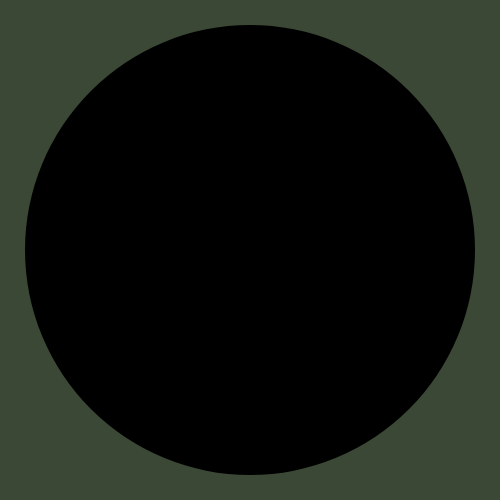
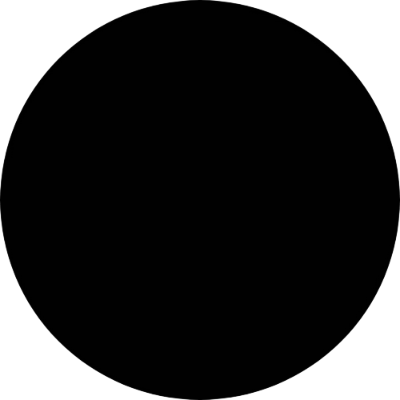
Created a function to render image when the Cell component is rendered. Piece image depends on the data send from app.py / route

diff --git a/client/src/components/Cell.jsx b/client/src/components/Cell.jsx
@@ -1,31 +1,24 @@
 import axios from "axios";
-import { useState } from "react";
-import blank from '../assets/blank.png';
-import black from '../assets/black.png';
-import white from '../assets/white.png';
+import { useState, useEffect} from "react";
+import Piece from './Piece';
 
 export default function Cell(props) {
-  const [side, setSide] = useState();
   const [color, setColor] = useState();
+
+
 
   const getInfo = async () => {
     const response = await axios.get("http://localhost:8080/");
-    setSide(response.data)
+    setColor(response.data)
   };
 
-  const setImg = () => {
-    if(side == 1){
-        setColor(black);
-    } else if(side == -1){
-        setColor(white);
-    } else {
-        setColor(blank);
-    }
-  }
+  useEffect(() => {
+    getInfo();
+  })
 
   return (
     <div className="cell" onClick={getInfo}>
-      <h1>{side}</h1>
+      <Piece color={color}/>
     </div>
   );
 }

diff --git a/client/src/components/Piece.jsx b/client/src/components/Piece.jsx
@@ -1,0 +1,20 @@
+import black from "../assets/black.png";
+import white from "../assets/white.png";
+
+export default function Piece(props) {
+  const color = props.color;
+
+  if (color == "1") {
+    return (
+      <div className="piece">
+        <img src={black} />
+      </div>
+    );
+  } else if (color == "-1") {
+    return (
+      <div className="piece">
+        <img src={white} />
+      </div>
+    );
+  }
+}

diff --git a/client/src/App.css b/client/src/App.css
@@ -34,4 +34,20 @@ body{
   padding: 0;
   border: 2px solid #000000;
   background-color: #485d3f;
+  display: flex;
+  align-items: center;
+  justify-content: center;
+}
+
+.piece{
+  height: 90%;
+  width: auto;
+  aspect-ratio: 1/1;
+  border-radius: 50%;
+}
+
+.piece img{
+  width: 100%;
+  height: auto;
+  aspect-ratio: 1/1;
 }

diff --git a/client/src/App.jsx b/client/src/App.jsx
@@ -14,7 +14,7 @@ function App() {
       <section className="main-section">
         <div className="board">
           {Array.from({ length:64}).map((_,index) => (
-            <Cell></Cell>
+            <Cell key={index}></Cell>
           ))}
         </div>
       </section>

diff --git a/server/app.py b/server/app.py
@@ -146,13 +146,12 @@ class Player():
                     validCellCount += 1
         return validCellCount
     
-    
+
 
 
 @app.route("/", methods=['GET'])
 def main():
-    myArray = [1, 2, 3]
-    return myArray
+    return '-1'
 
 if __name__ == "__main__":
     app.run(debug=True, port=8080)
